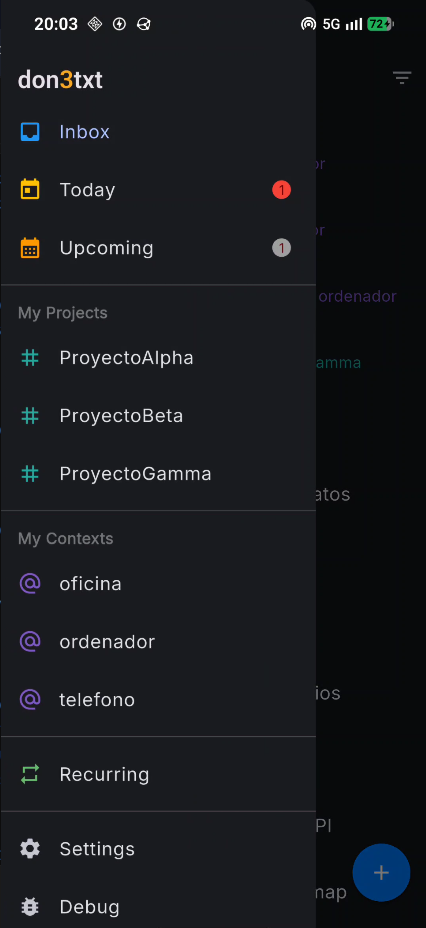
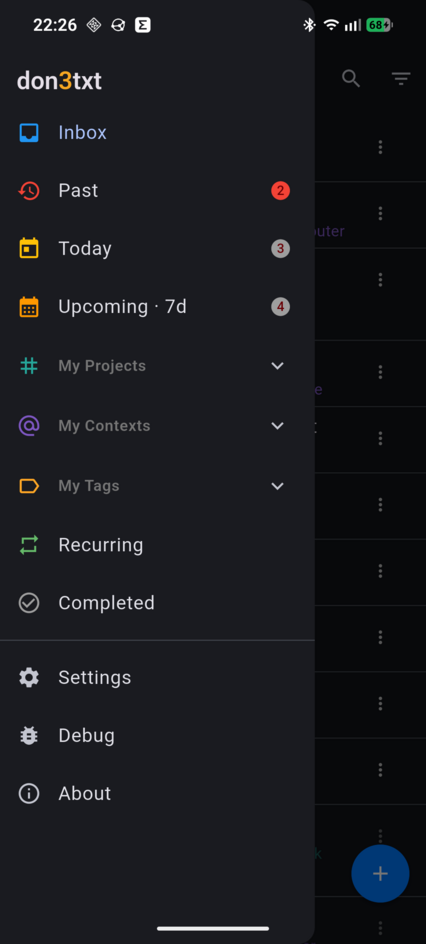
Refresh the website screenshots with the current app

diff --git a/docs/index.html b/docs/index.html
@@ -1597,7 +1597,7 @@
             <div class="phone-btn-left-1"></div>
             <div class="phone-btn-left-2"></div>
             <div class="phone-screen">
-              <img src="screen_1.png" alt="Sidebar with views: Inbox, Today, Upcoming, projects and contexts">
+              <img src="screen_1.png" alt="Sidebar with views: Inbox, Past, Today, Upcoming, projects, contexts, tags, Recurring and Completed">
             </div>
           </div>
           <p class="phone-caption">Navigation</p>
@@ -1609,7 +1609,7 @@
             <div class="phone-btn-left-1"></div>
             <div class="phone-btn-left-2"></div>
             <div class="phone-screen">
-              <img src="screen_2.png" alt="Inbox view with task list, priorities, projects and contexts">
+              <img src="screen_2.png" alt="Inbox view with task list, priorities, due dates, recurrence, projects and contexts">
             </div>
           </div>
           <p class="phone-caption">Inbox</p>
@@ -1621,7 +1621,7 @@
             <div class="phone-btn-left-1"></div>
             <div class="phone-btn-left-2"></div>
             <div class="phone-screen">
-              <img src="screen_3.png" alt="Settings screen: todo.txt file, language, theme, upcoming period, priority colors and task sort order">
+              <img src="screen_3.png" alt="Settings screen: todo file, theme, text size and language">
             </div>
           </div>
           <p class="phone-caption">Settings</p>
